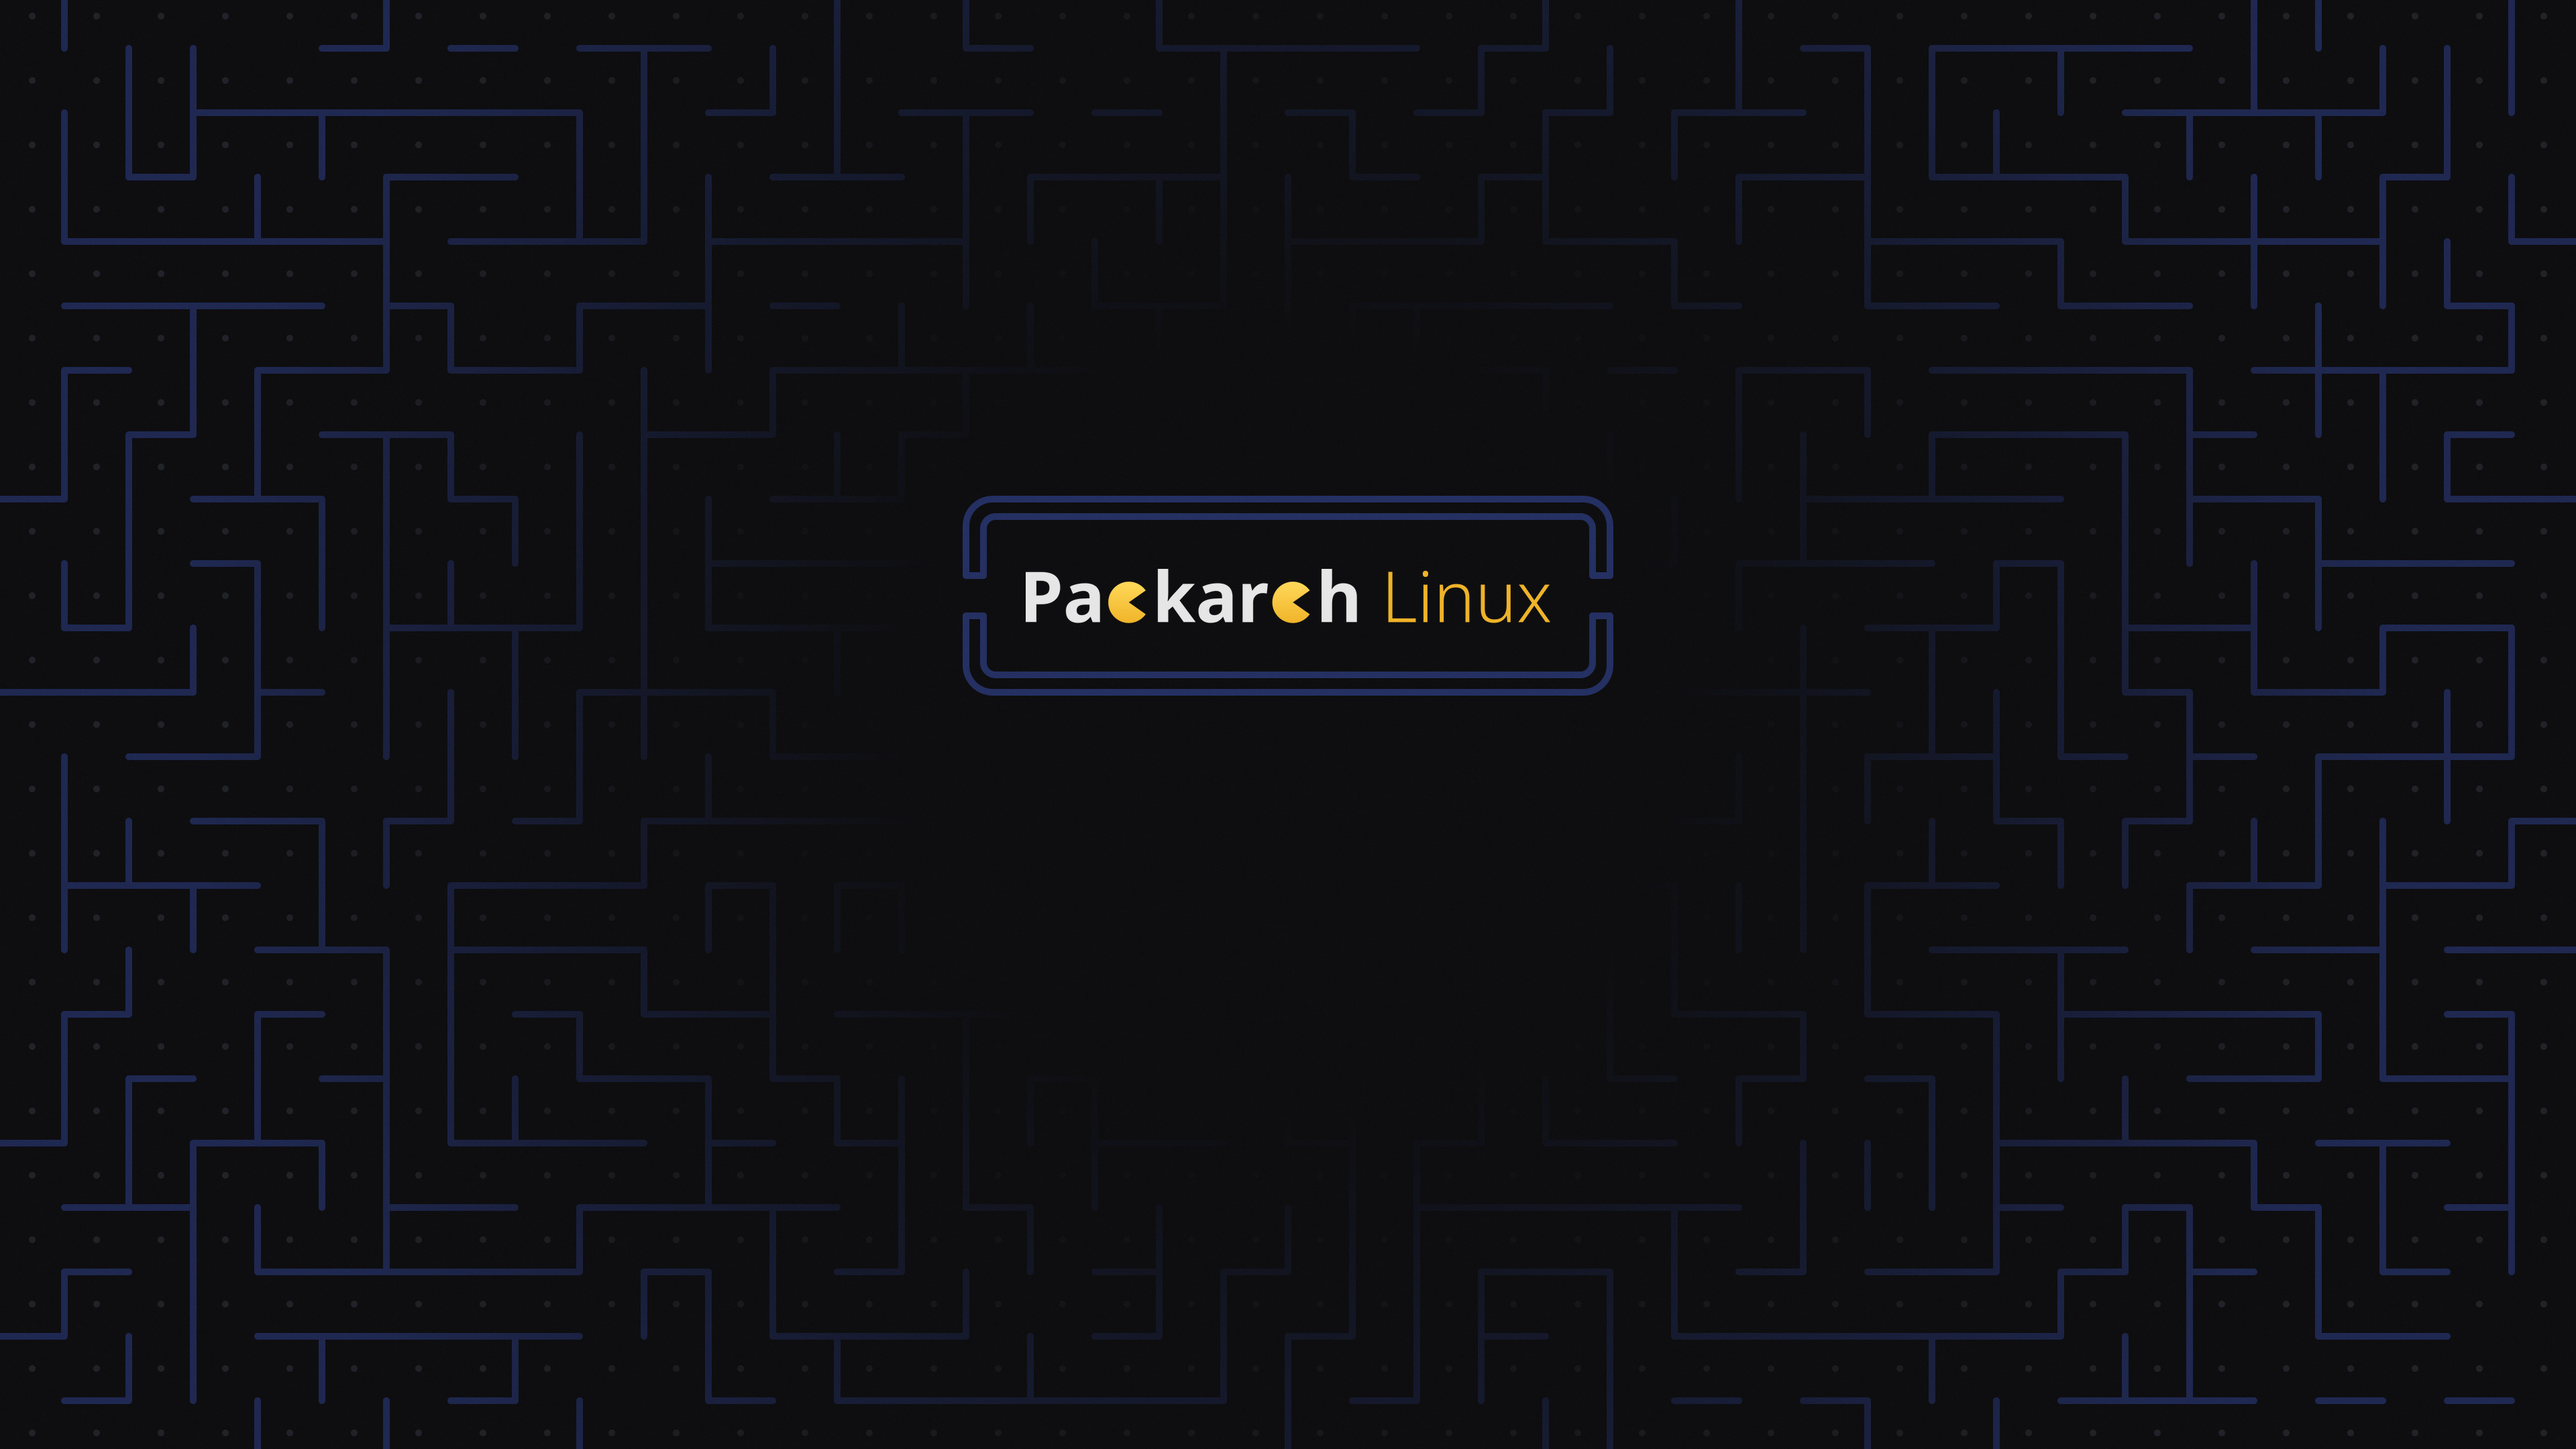
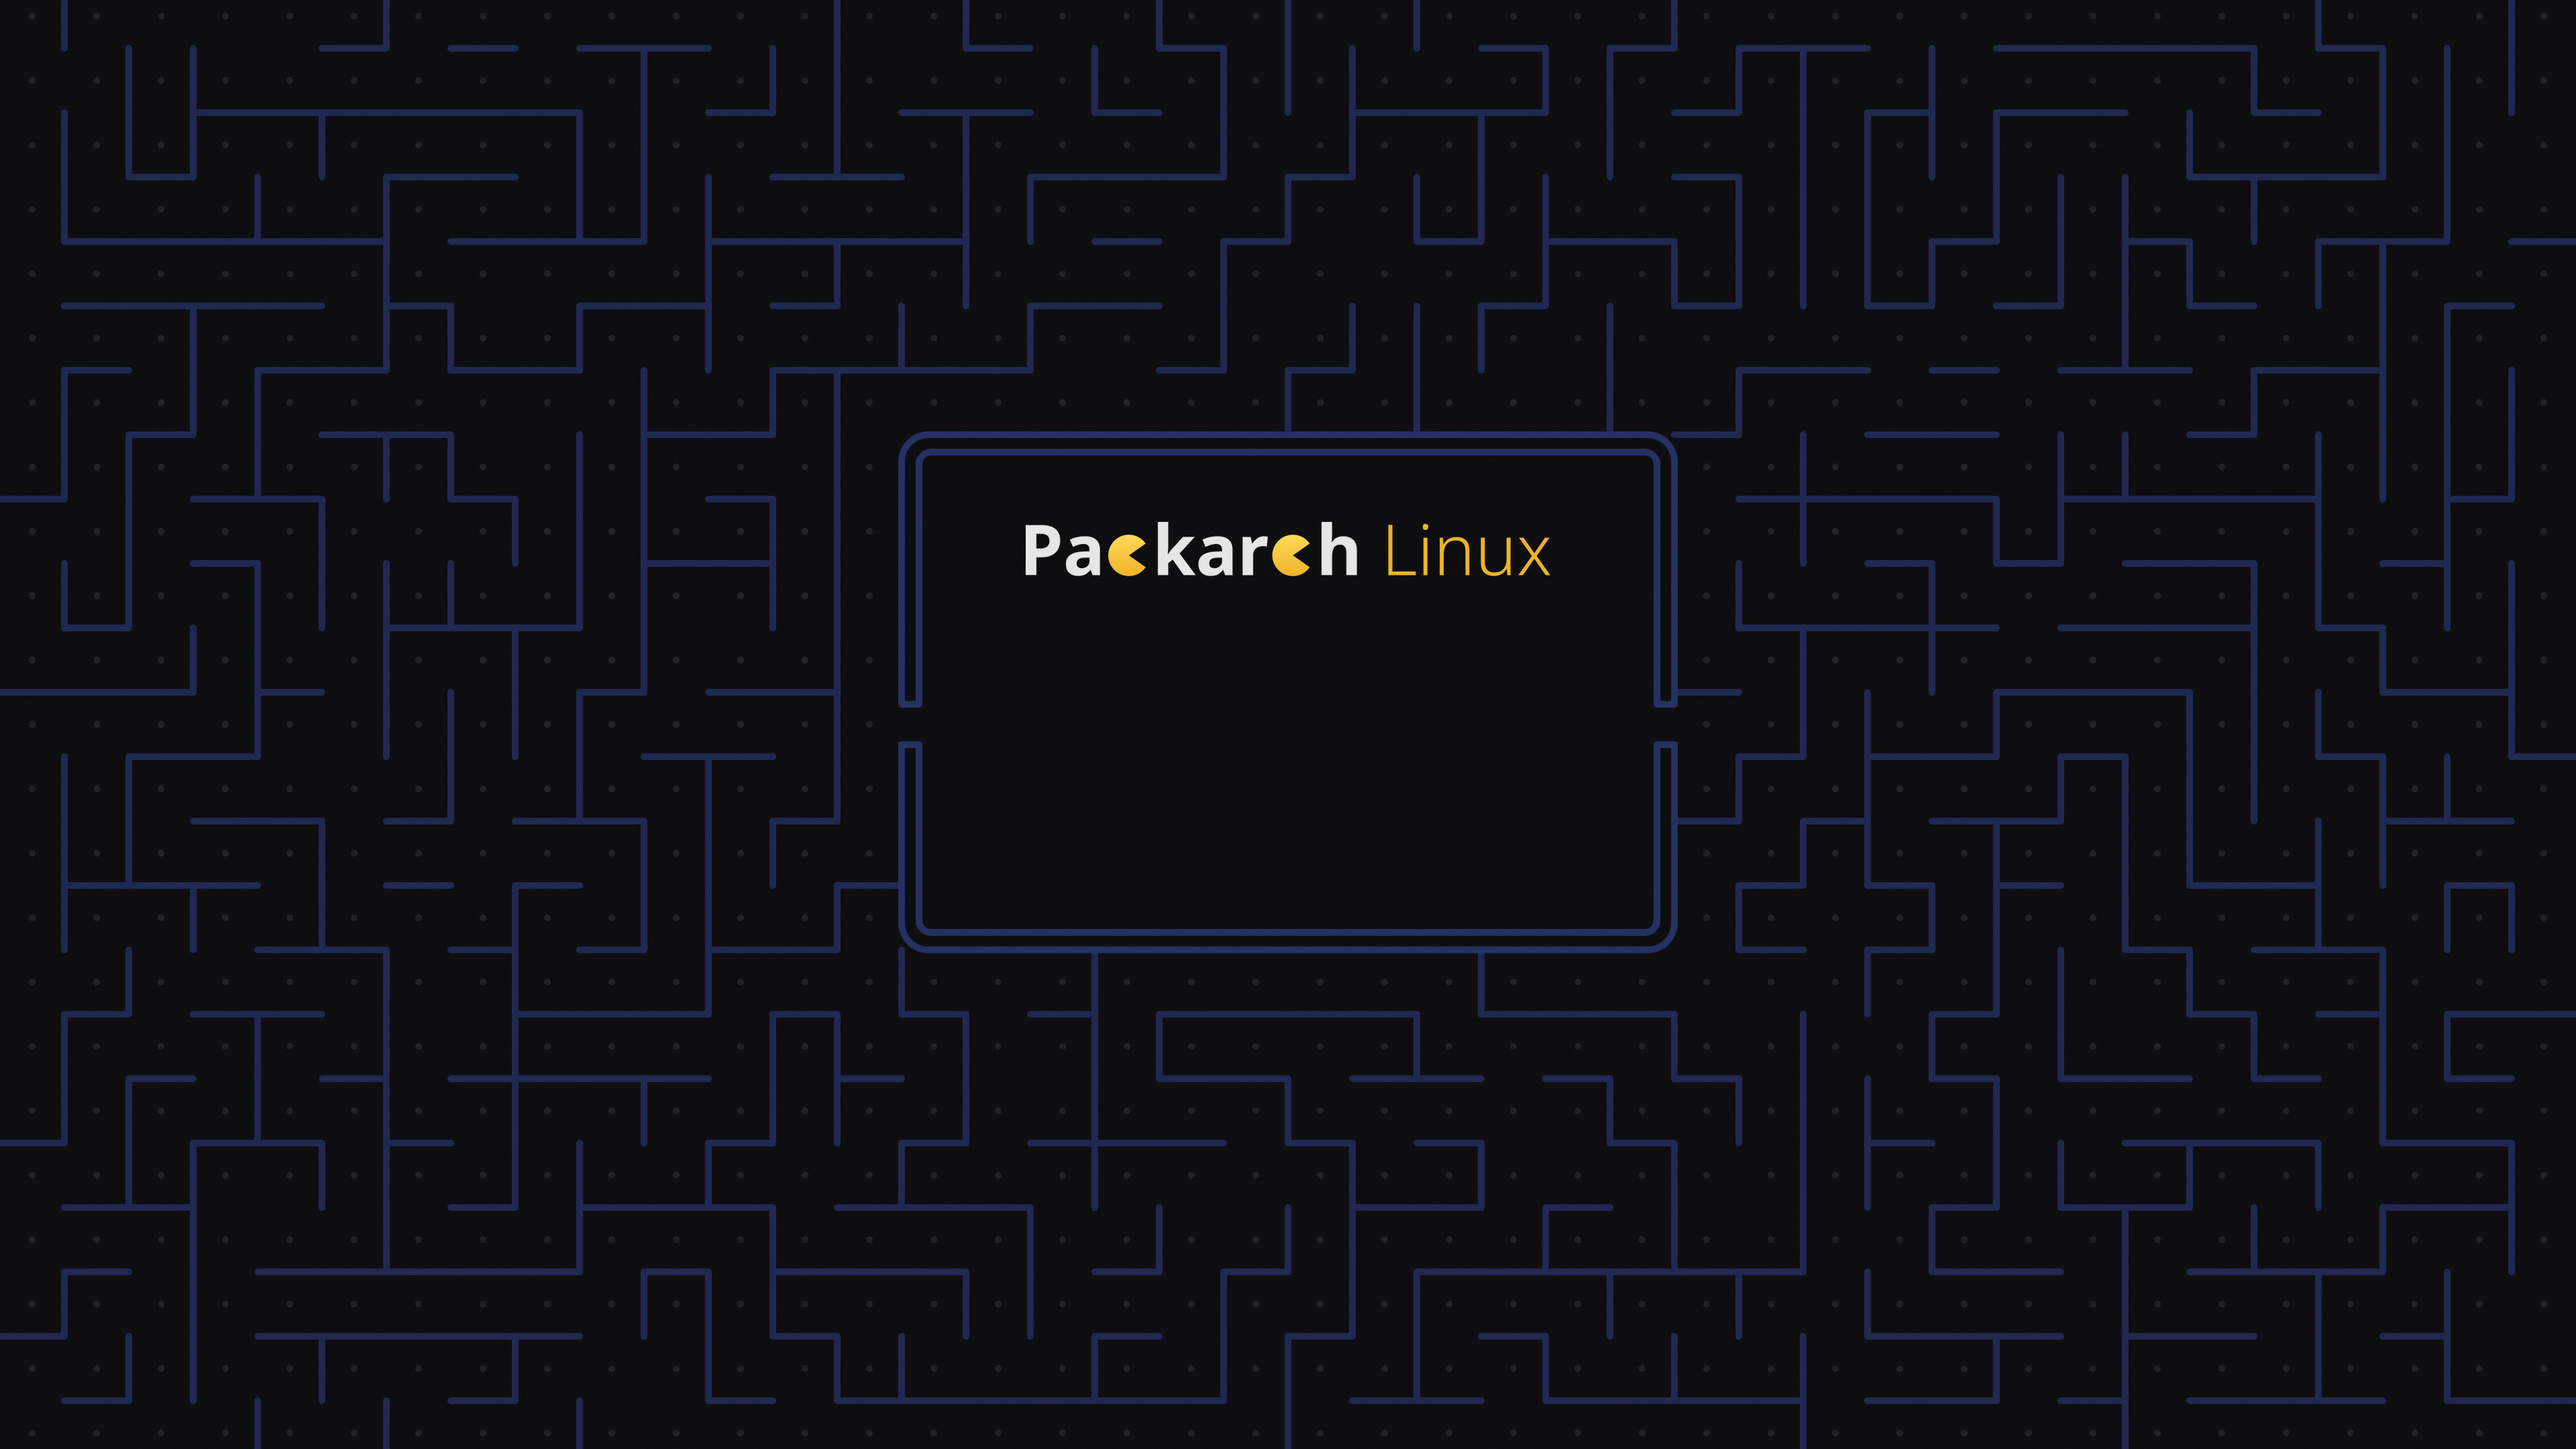
Marque : fond SDDM sans fondu, salle qui contient le texte et la connexion
labyrinthe.py : taille de la salle réglable (--salle-l, --salle-h) ; fond du
bureau inchangé.

diff --git a/branding/sources/labyrinthe.py b/branding/sources/labyrinthe.py
@@ -5,7 +5,9 @@ import random, sys
 # --salle : salle au centre (10 x 3 cases, comme la maison des fantômes du
 # jeu) pour le texte « Packarch Linux » : sans murs ni pastilles dedans,
 # cadre à double trait aux coins arrondis, ouverte à gauche et à droite.
-# --salle-y=N : rangée du haut de la salle (10 par défaut : centrée).
+# --salle-y=N : rangée du haut de la salle (10 par défaut : centrée) ;
+# --salle-l=N, --salle-h=N : largeur et hauteur en cases (10 et 3 par
+# défaut), salle centrée en largeur, portes au milieu des côtés.
 # --cadre-seul : seulement le cadre de la salle (dessiné sans fondu sur le
 # fond SDDM) ; --sans-cadre : le labyrinthe sans le cadre.
 # Sans --salle, le labyrinthe est le même qu'avant.
@@ -13,14 +15,19 @@ args = sys.argv[1:]
 salle = "--salle" in args
 cadre_seul = "--cadre-seul" in args
 sans_cadre = "--sans-cadre" in args
-haut = next((int(a.split("=")[1]) for a in args if a.startswith("--salle-y=")), 10)
+def opt(nom, defaut):
+    return next((int(a.split("=")[1]) for a in args if a.startswith(nom + "=")), defaut)
+haut = opt("--salle-y", 10)
+larg = opt("--salle-l", 10)
+haute = opt("--salle-h", 3)
 random.seed(7)
 C=96; W,H=3840,2160
 nx,ny=W//C,H//C+1
 ox=(W-nx*C)//2; oy=(H-ny*C)//2
 # Salle : cases [sx0, sx1) x [sy0, sy1), centrée sur l'image
-sx0,sx1,sy0,sy1=15,25,haut,haut+3
-porte=haut+1
+sx0=(nx-larg)//2
+sx1,sy0,sy1=sx0+larg,haut,haut+haute
+porte=haut+haute//2
 def dans(x,y): return salle and sx0<=x<sx1 and sy0<=y<sy1
 # murs : droite[x][y], bas[x][y]
 droite=[[True]*ny for _ in range(nx)]; bas=[[True]*ny for _ in range(nx)]

diff --git a/branding/README.md b/branding/README.md
@@ -9,7 +9,7 @@ chaque fois). Images en 3840 × 2160.
 | `fonds/packarch-default.jpg` | fond du thème packarch (bureau) et de LightDM : fond `#0e0e11`, trame de pastilles, grain fin, grand fantôme à peine plus sombre derrière « Pa🟡kar🟡h Linux » |
 | `fonds/packarch-labyrinthe.jpg` | variante pour le bureau : labyrinthe entier (sans fondu, 70 %), « Pa🟡kar🟡h Linux » dans une salle au centre du labyrinthe (cadre à double trait, ouverte à gauche et à droite), sans fantômes |
 | `sddm/packarch/` | thème SDDM (prototype, Qt 6) : `Main.qml`, `theme.conf`, `metadata.desktop` |
-| `sddm/packarch/background.jpg` | son fond : labyrinthe estompé vers le centre, « Pa🟡kar🟡h Linux » dans une salle du labyrinthe (cadre sans fondu), ligne d’un pacman et de 45 fantômes de 8 couleurs en bas |
+| `sddm/packarch/background.jpg` | son fond : labyrinthe entier (70 %), salle de 12 × 8 cases qui contient « Pa🟡kar🟡h Linux » et le panneau de connexion, ligne d'un pacman et de 45 fantômes de 8 couleurs en bas |
 | `sddm/packarch/background-sans-fantomes.jpg` | le même sans la ligne du bas (`background=` de `theme.conf`) |
 
 ## Sources (`sources/`)
@@ -25,7 +25,8 @@ chaque fois). Images en 3840 × 2160.
   quelques boucles, murs `#26336b`, pastilles au milieu des couloirs ; écrit un
   SVG sur la sortie standard. `--salle` : salle de 10 × 3 cases pour le texte
   (comme la maison des fantômes du jeu) ; `--salle-y=N` sa rangée du haut,
-  `--cadre-seul` et `--sans-cadre` pour dessiner son cadre à part (fond SDDM).
+  `--salle-l=N` et `--salle-h=N` sa taille en cases, `--cadre-seul` et
+  `--sans-cadre` pour dessiner son cadre à part.
 - `construire.sh` : texte « Packarch Linux » (Noto Sans Bold, `#e6e6e6` ;
   « Linux » en Noto Sans Light, `#f0b429` ; pacmans à la place des « c »),
   trame, grain, fondu du labyrinthe et assemblage des trois images.
